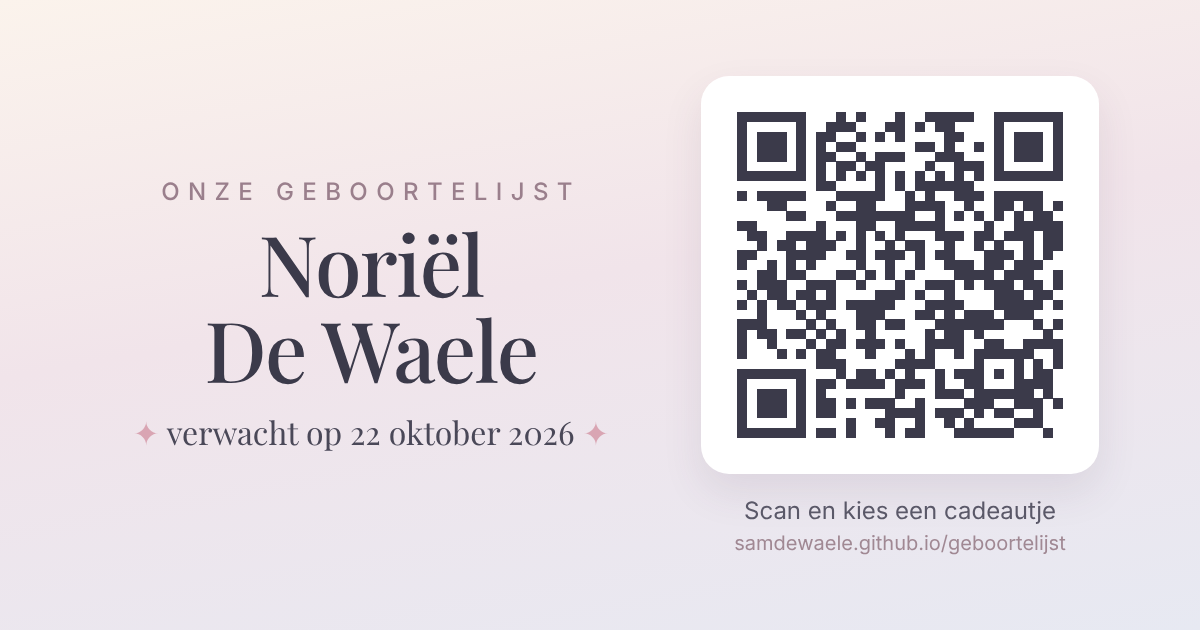
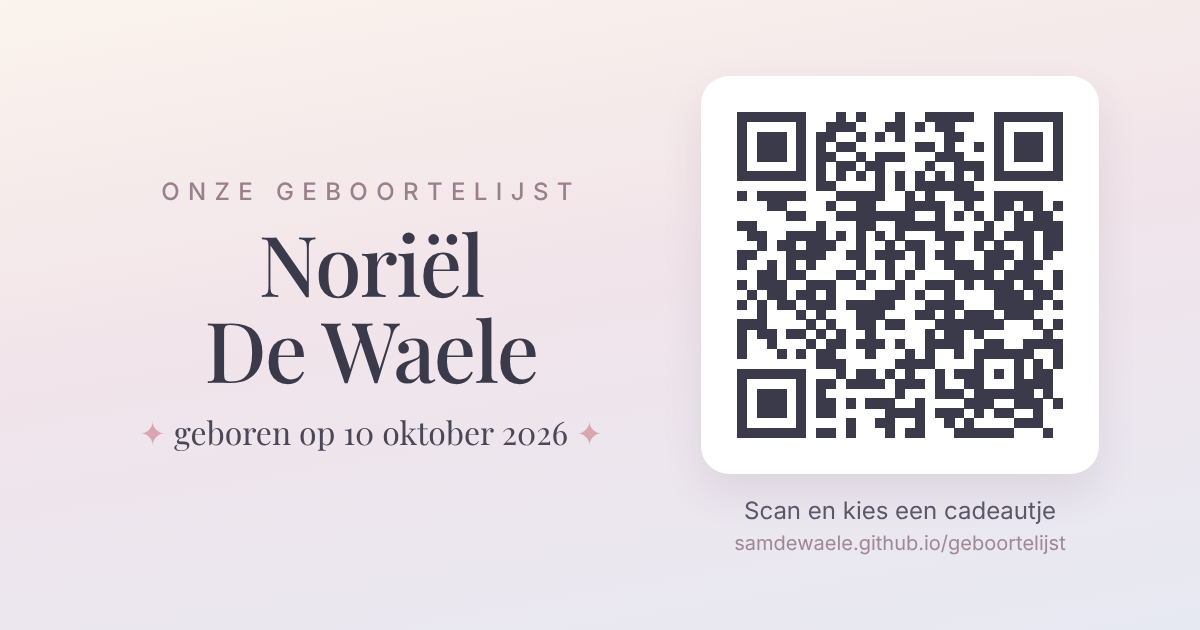
Born 10 October 2026
Claude-Session: https://claude.ai/code/session_01MYwEStffBWvSNJDEKW1MU3

Changed region(s): [[0.1233, 0.6635, 0.5242, 0.7238]]

diff --git a/index.html b/index.html
@@ -4,11 +4,11 @@
 <meta charset="utf-8">
 <meta name="viewport" content="width=device-width, initial-scale=1">
 <title>Geboortelijst Noriël De Waele</title>
-<meta name="description" content="Verwacht op 22 oktober 2026. Kies een cadeautje van onze geboortelijst.">
+<meta name="description" content="Geboren op 10 oktober 2026. Kies een cadeautje van onze geboortelijst.">
 <meta property="og:type" content="website">
 <meta property="og:url" content="https://samdewaele.github.io/geboortelijst/">
 <meta property="og:title" content="Geboortelijst Noriël De Waele">
-<meta property="og:description" content="Verwacht op 22 oktober 2026. Kies een cadeautje van onze geboortelijst.">
+<meta property="og:description" content="Geboren op 10 oktober 2026. Kies een cadeautje van onze geboortelijst.">
 <meta property="og:image" content="https://samdewaele.github.io/geboortelijst/og-preview.png">
 <meta property="og:image:width" content="1200">
 <meta property="og:image:height" content="630">
@@ -22,7 +22,7 @@
   <form id="f" method="post" action="https://geboortelijstjes.be/html/bambolino/indexgbl.php">
     <input type="hidden" name="page" value="gbl_fvm_sel.php">
     <input type="hidden" name="txtKND" value="Noriël De Waele">
-    <input type="hidden" name="txtLEVDAT" value="2026-10-22">
+    <input type="hidden" name="txtLEVDAT" value="2026-10-10">
     <p>Je wordt doorgestuurd naar de geboortelijst…</p>
     <button type="submit">Open de geboortelijst</button>
   </form>
